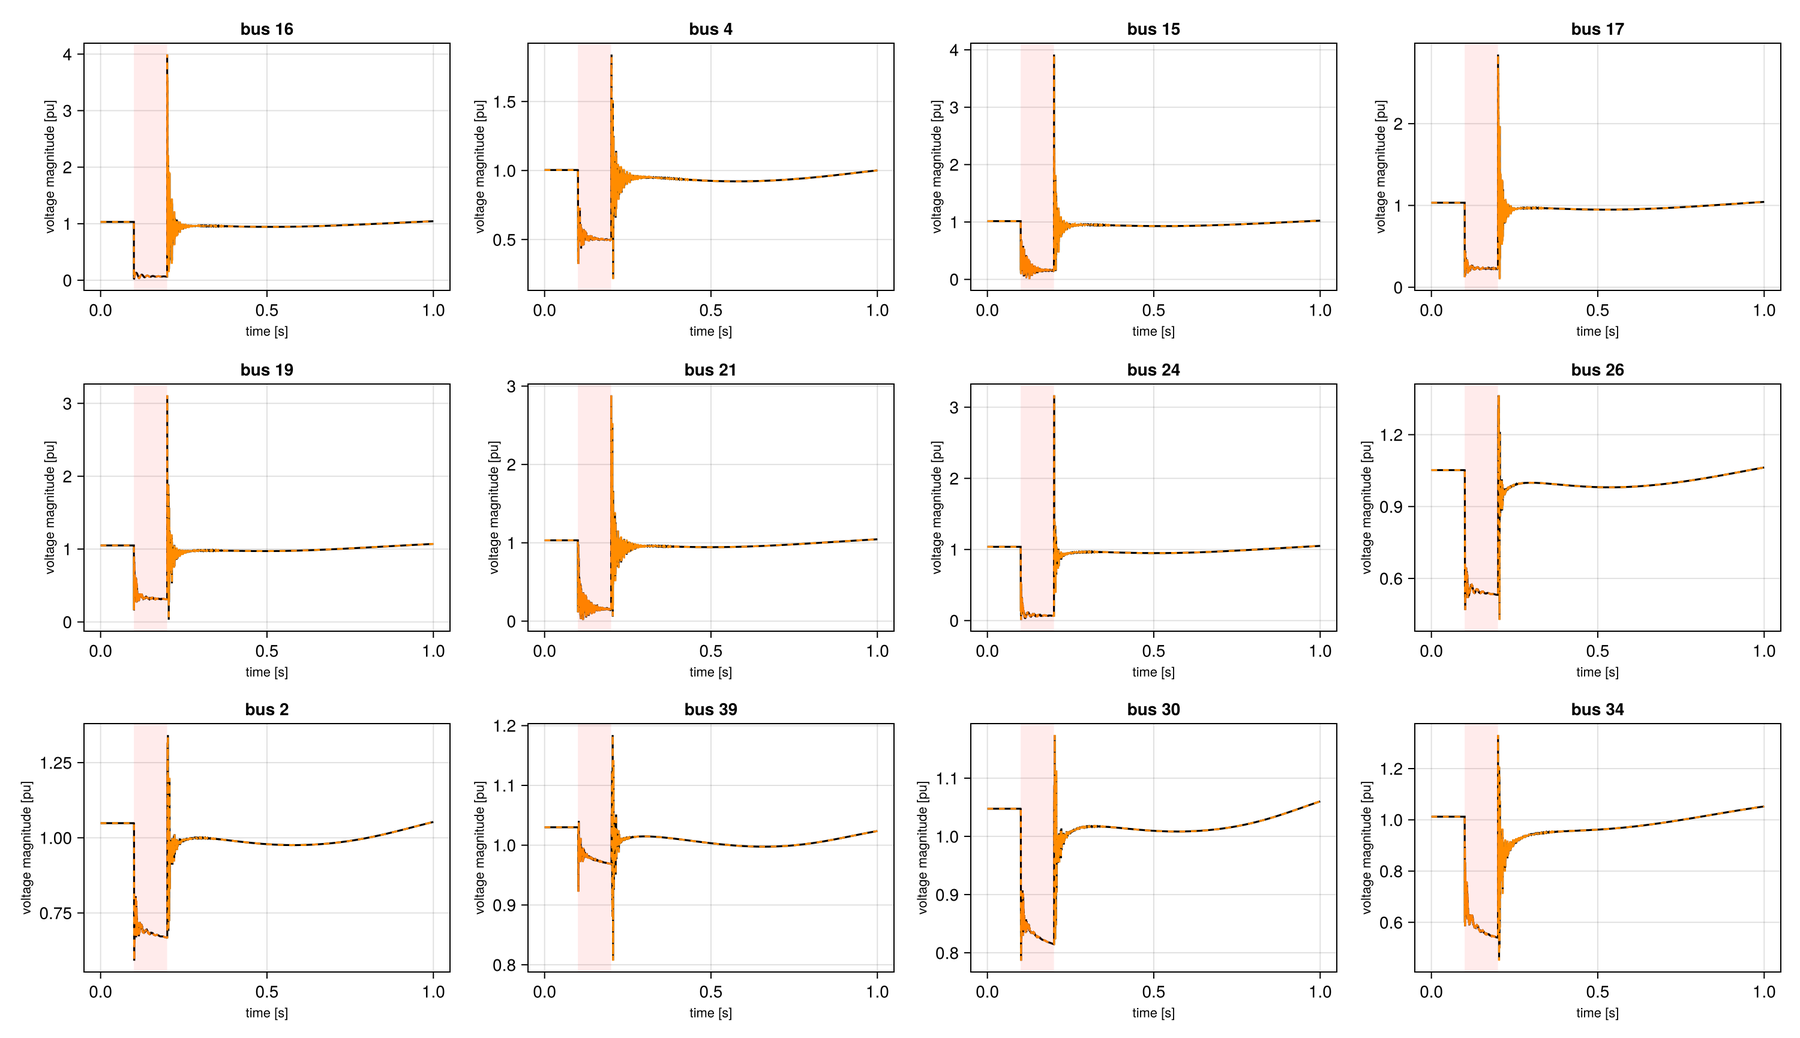
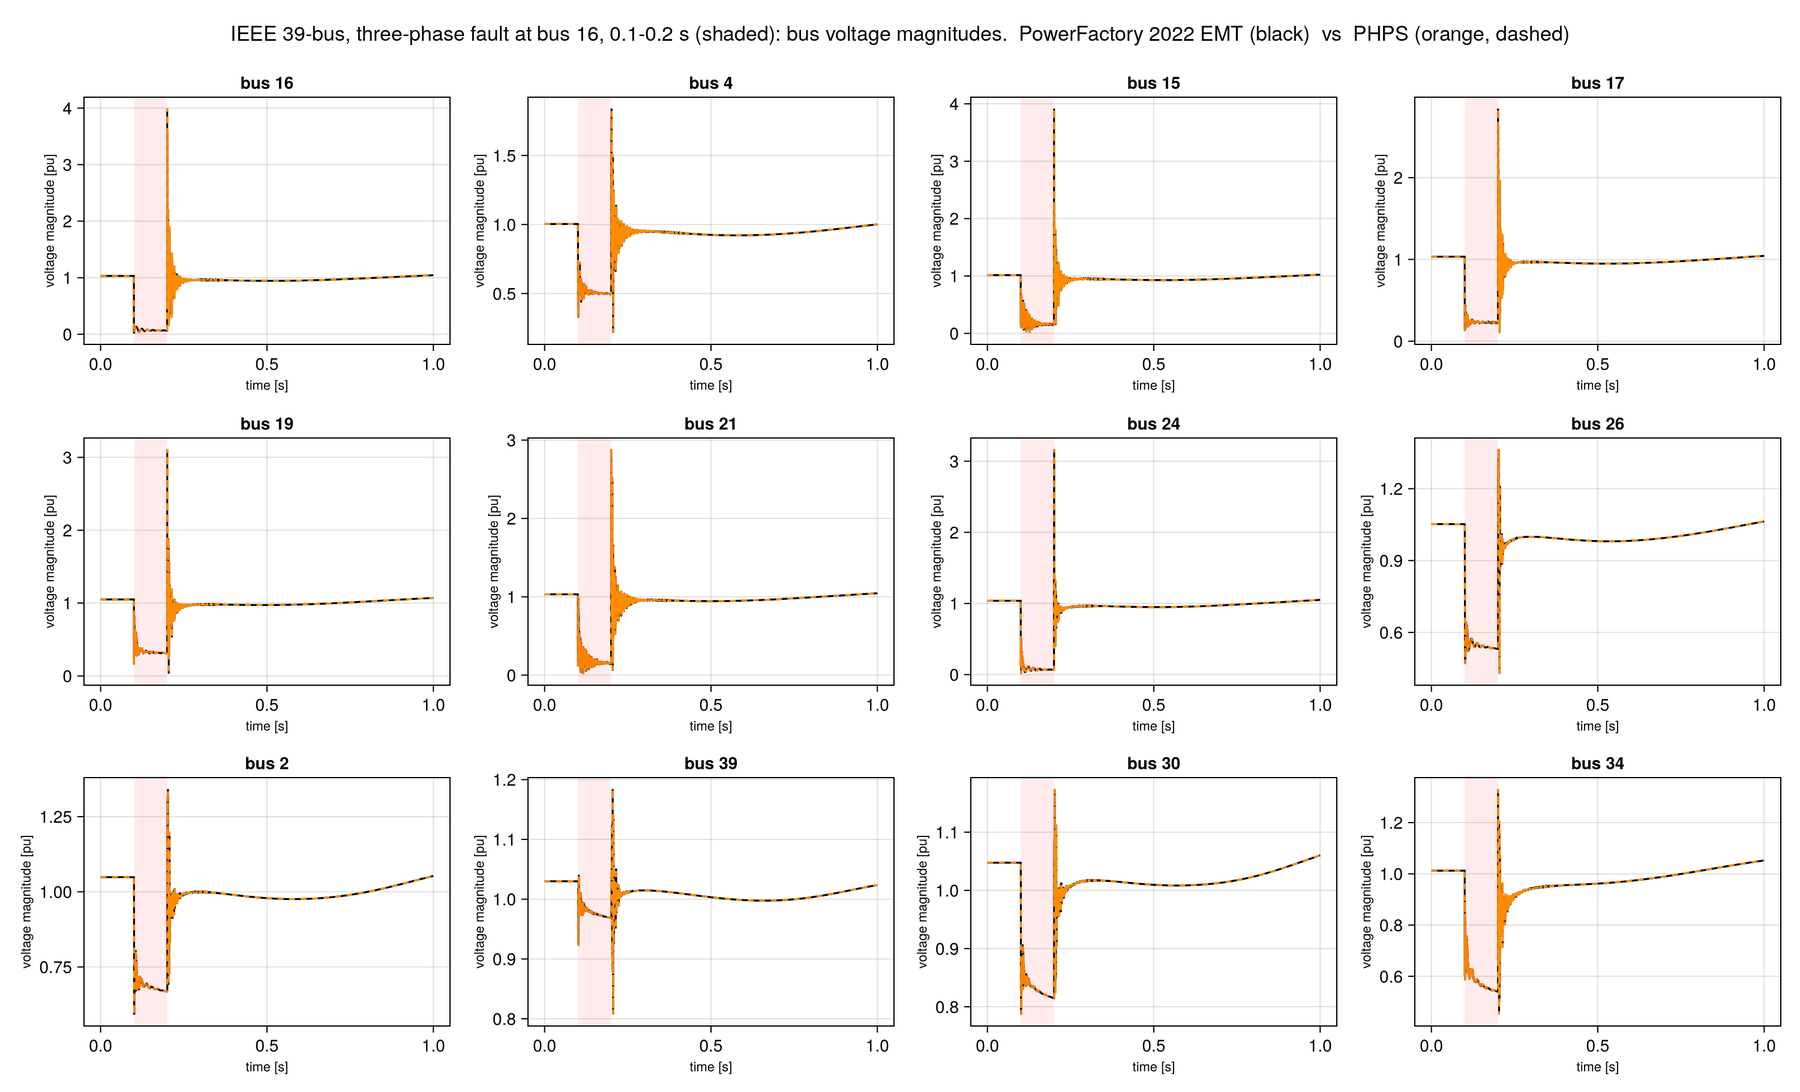
Accuracy figures: titles and legend restored, and docs/figures/README.md explaining the comparison with PowerFactory EMT

diff --git a/docs/figures/README.md b/docs/figures/README.md
@@ -1,0 +1,68 @@
+# Accuracy: PHPS against PowerFactory EMT
+
+These figures compare PHPS's EMT simulation with **DIgSILENT PowerFactory 2022 SP1 in EMT mode** (instantaneous
+values), an established commercial simulator, on the same system and the same event. In every figure PowerFactory is
+the **black** line, PHPS the **orange dashed** line, and the fault is shaded.
+
+## The test
+
+| | |
+|---|---|
+| System | IEEE 39-bus (New England): 39 buses, 10 synchronous machines (G 01 is the equivalent of the rest of the interconnection), 46 lines and transformers, 19 loads |
+| Event | three-phase fault at bus 16 through 0.001 pu, applied at 0.1 s and removed at 0.2 s; simulated to 1 s |
+| Controllers | IEEE Type-1 exciters (IEEET1) and steam and hydro governors (IEEEG1, IEEEG3) in service in both tools, with the same parameters; power-system stabilisers out of service in both |
+| PowerFactory | EMT, fixed step 2.5 µs, output every 0.1 ms |
+| PHPS | port-Hamiltonian EMT model (`src/phsim/`), implicit midpoint rule at a quarter of its default step (about 1 µs, 0.3 µs during the fault), read at PowerFactory's sample times |
+
+## What was matched
+
+So that the comparison tests the models and not differences in data, both tools simulate the same thing:
+
+- **Machine data.** PowerFactory derives each machine's equivalent circuit (field and damper windings) from its
+  standard data; PHPS uses those derived winding values, changed only in base
+  (`cases/IEEE39Bus_FullModel/winding_circuits.json`).
+- **Loads.** In EMT, PowerFactory models an inductive load as a resistor and an inductor in series; PHPS uses the same
+  series R-L form for every load (`loads = :series_all`).
+- **Shaft input.** Both tools turn the turbine power the governor sets into shaft torque as power / speed.
+- **Fault removal.** PowerFactory's own clear event opens each phase at its next current zero. For this benchmark the
+  fault is removed on all three phases at once in both tools (an ideal simultaneous interruption).
+- **Signals that need no frame alignment.** Rotor angles are taken relative to G 01; speeds, torques, field currents,
+  stator fluxes and voltage magnitudes are compared directly, with only base conversions.
+
+Before the fault the two tools sit at the same operating point: largest difference over all machines and buses
+3.5e-5° in rotor angle, 1.2e-6 pu in voltage.
+
+## The figures
+
+| File | What it shows |
+|---|---|
+| [accuracy_rotor_angle.png](accuracy_rotor_angle.png) | rotor angle of every machine relative to G 01, over the whole run |
+| [accuracy_speed.png](accuracy_speed.png) | speed of every machine |
+| [accuracy_bus_voltage.png](accuracy_bus_voltage.png) | voltage magnitude at the faulted bus and eleven others, including the electromagnetic ringing at fault inception and removal |
+| [accuracy_fault_clearing.png](accuracy_fault_clearing.png) | a 35 ms window around fault removal at 0.1 ms resolution: electrical torques and stator fluxes of three machines, voltages at buses 16 and 17 |
+
+## The differences
+
+Largest difference over all machines or buses:
+
+| Signal | Window | Largest difference | Share of the largest excursion in PowerFactory |
+|---|---|---|---|
+| Rotor angle (relative to G 01) | after the fault | 0.010° | 0.02 % |
+| Speed | after the fault | 1.1e-6 pu | 0.014 % |
+| Electrical torque | during the fault (largest / rms) | 0.0040 / 0.0010 pu | |
+| Electrical torque | after the fault (largest / rms) | 0.0136 / 0.0008 pu | 0.1 % / 0.006 % |
+| Field current | after the fault | 0.0019 pu | |
+| Stator flux, d axis | after the fault | 0.0006 pu | |
+| Excitation voltage | after the fault | 0.0010 pu | |
+| Turbine power | after the fault | 1.6e-5 pu | |
+| Bus voltage magnitude | during the fault (largest / rms) | 0.0048 / 0.0006 pu | |
+| Bus voltage magnitude | after the fault (largest / rms) | 0.033 / 0.0011 pu | 1.1 % / 0.04 % |
+
+The largest voltage difference sits in the first milliseconds after the fault is removed, where the voltage swings
+by several per unit; the peak at the faulted bus is 4.190 pu in PowerFactory and 4.194 pu in PHPS. With the
+controllers out of service in both tools, the rotor angles agree within 0.0015°.
+
+## What this does not show
+
+This is one balanced fault on one system. It says nothing here about unbalanced faults, about a real breaker's
+current-zero interruption, or about how well either tool represents a real power system.

diff --git a/README.md b/README.md
@@ -68,10 +68,8 @@ Largest differences over all ten machines and all buses: rotor angle 0.010°, sp
 0.1 % of its excursion, bus voltage 0.033 pu at the sharpest switching transient (0.04 % rms). The voltage peak at
 the faulted bus after the fault is removed is 4.190 pu in PowerFactory and 4.194 pu in PHPS.
 
-The comparison figures are in [docs/figures/](docs/figures) (PowerFactory black, PHPS orange dashed, fault shaded):
-rotor angles (`accuracy_rotor_angle.png`), machine speeds (`accuracy_speed.png`), bus voltages
-(`accuracy_bus_voltage.png`), and torques, fluxes and voltages at fault removal at 0.1 ms resolution
-(`accuracy_fault_clearing.png`).
+The figures, the test set-up, what was matched between the two tools and the full table of differences are in
+[docs/figures/](docs/figures/README.md).
 
 ## Quick start
 
